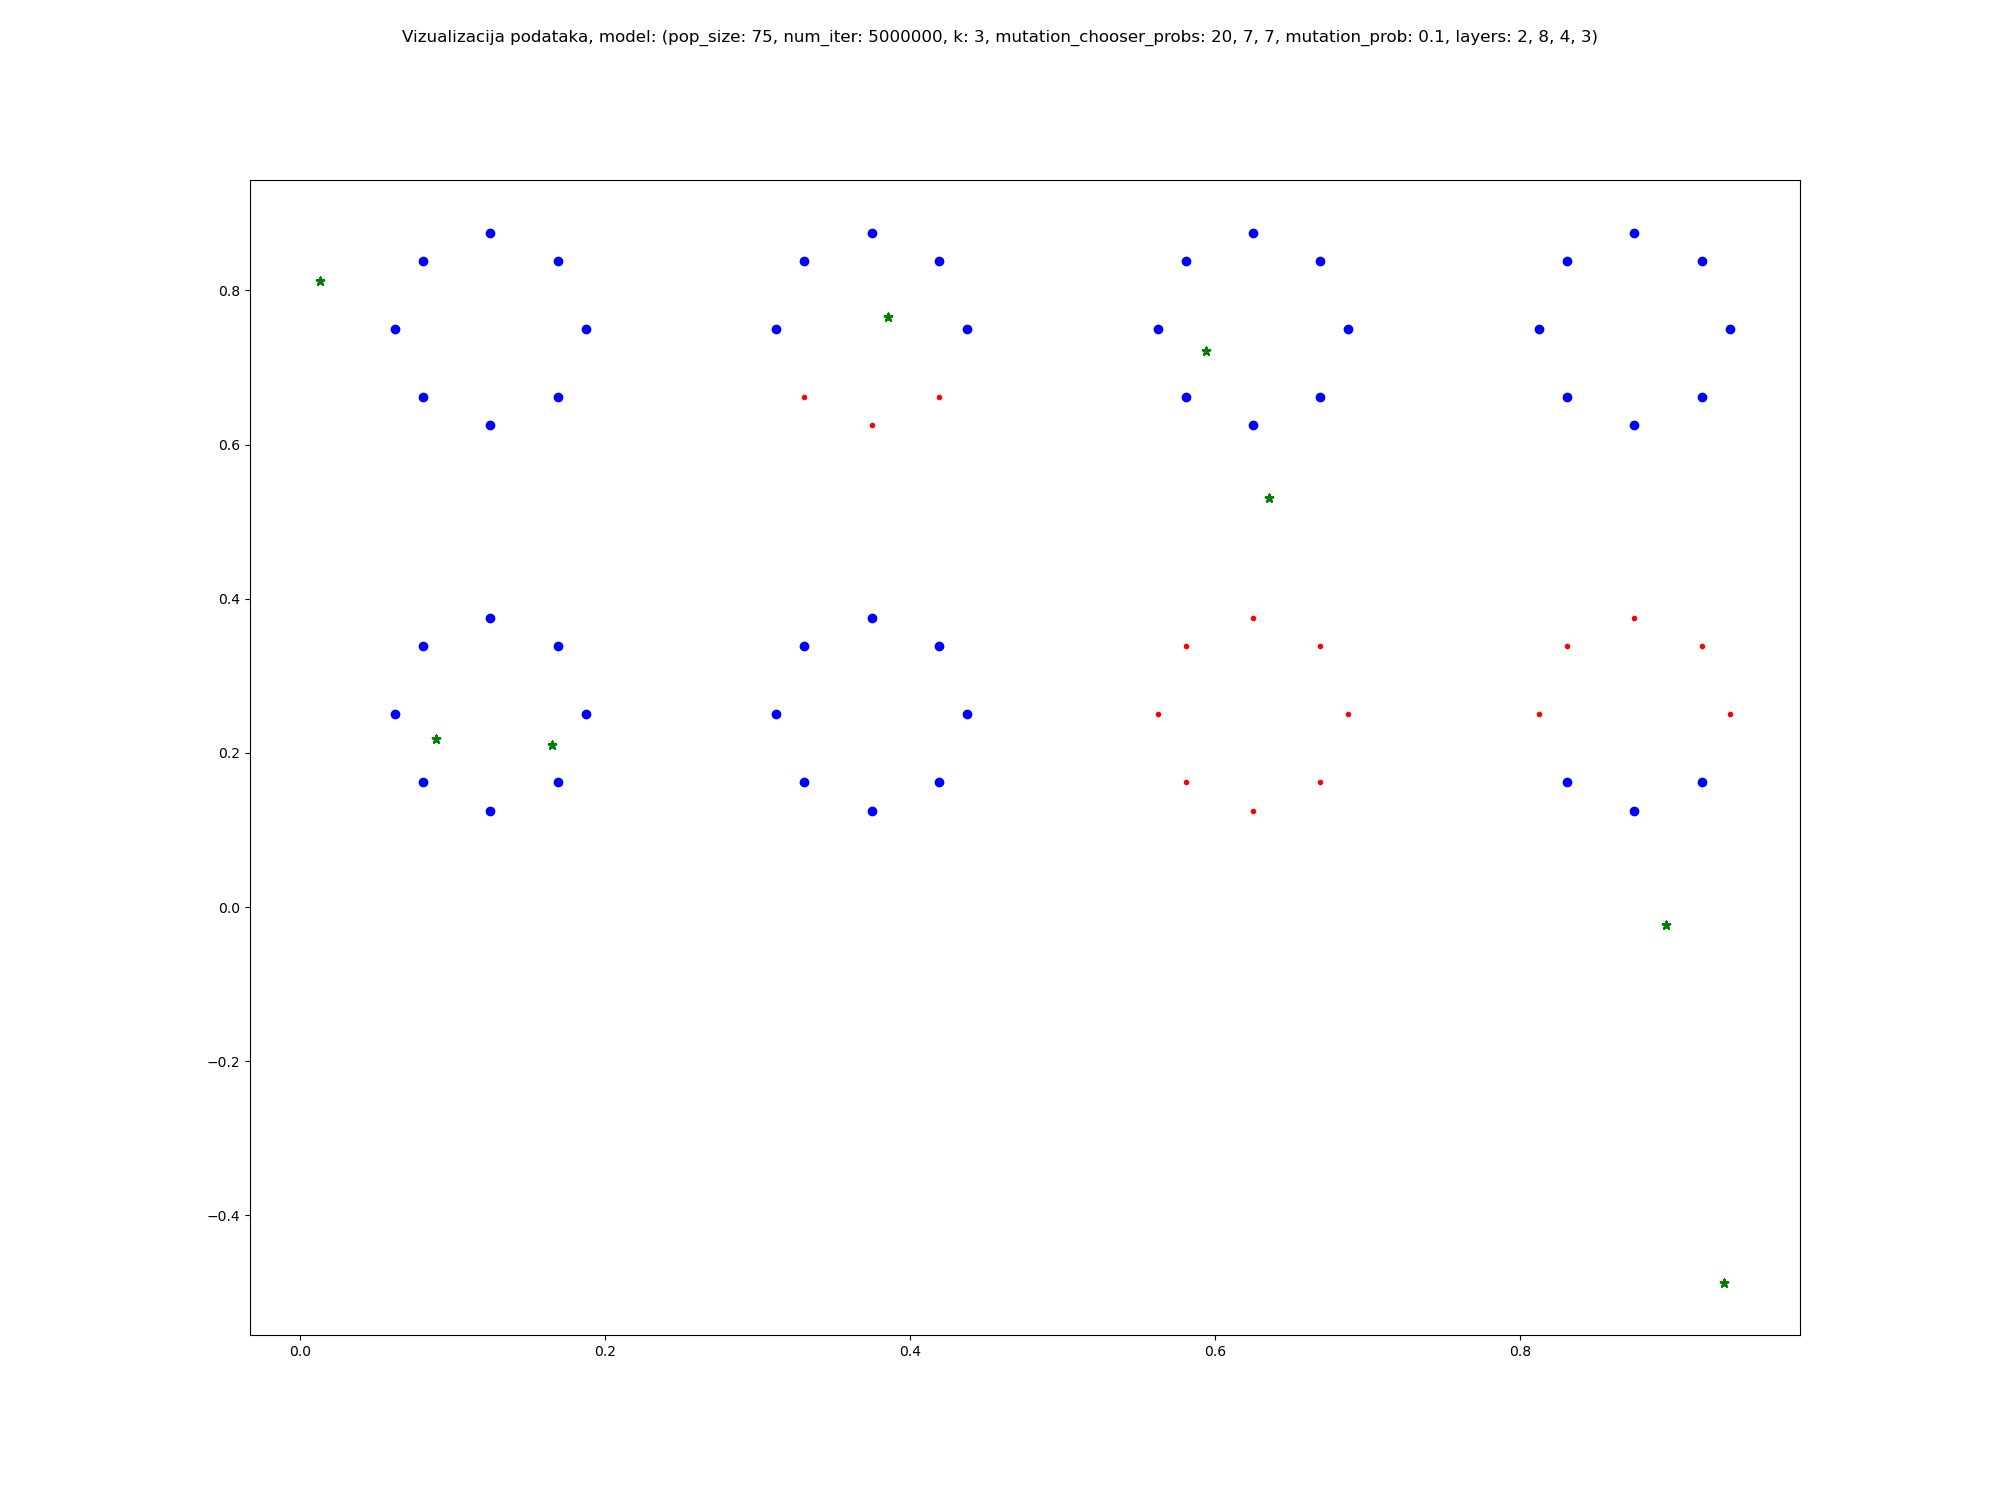
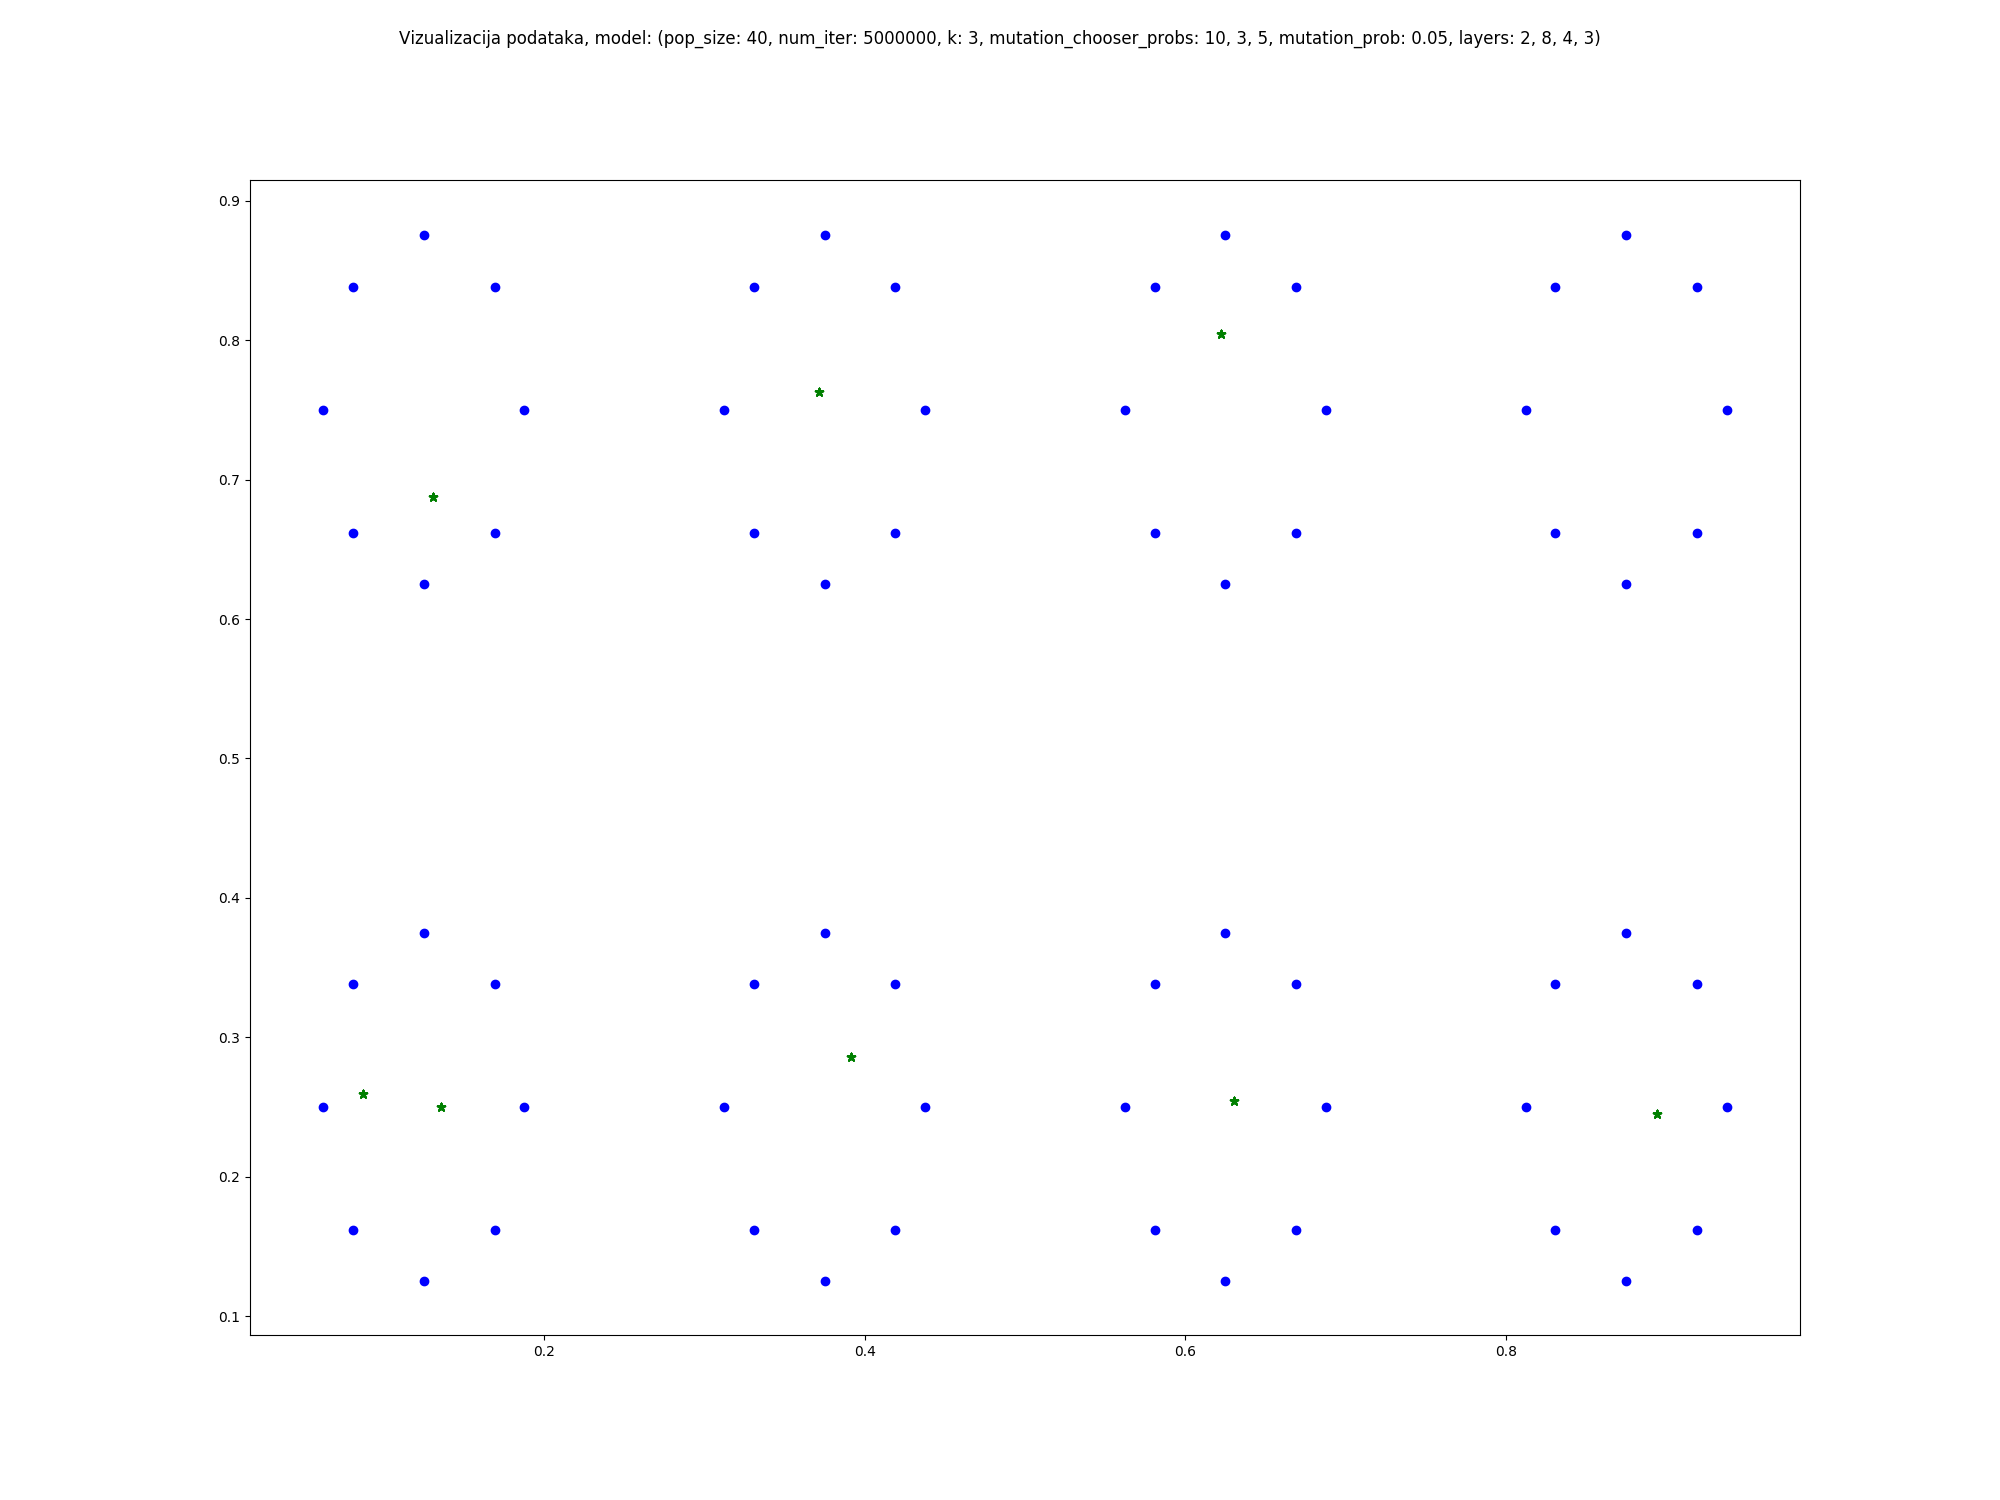
Finished lab7

Changed region(s): [[0.186, 0.0, 0.806, 0.0307]]

diff --git a/neuro_evolutional_net/main.py b/neuro_evolutional_net/main.py
@@ -40,7 +40,7 @@ def plot_data(dataset, save_file=None, neural_net=None, params=None, model_specs
 
     if save_file is not None:
         plt.savefig(save_file)
-    # plt.show()
+    plt.show()
 
 
 def test_neuron(w, s, save_file=None):
@@ -56,59 +56,58 @@ def test_neuron(w, s, save_file=None):
 
     if save_file is not None:
         plt.savefig(save_file)
-    # plt.show()
+    plt.show()
 
 
 def main():
     dataset = Dataset('dataset.txt')
-    for layers in [[2, 8, 3], [2, 8, 4, 3], [2, 6, 4, 3]]:
-        print(layers)
-        neural_net = NeuralNet(layers, dataset)
-        #test_neuron(2, [1, 0.25, 4], save_file='test_neuron.png')
-        #plot_data(dataset, save_file='data_visualisation.png')
-        population_size = 150
-        num_iter = 10000000
-        k = 5
-        mutation_chooser_probs = [10, 2, 3]
-        mutation_prob = 0.2
-        genetic_algorithm = GeneticAlgorithm(population_generation=genetics.generate_population(neural_net.get_num_params(), population_size, neural_net),
-                                             num_iter=num_iter,
-                                             selection=genetics.tournament_selection(
-            population_size, k=k),
-            combination=genetics.cross_chooser(
-            [genetics.weight_recombination(neural_net),
-             genetics.simulated_binary_recombination(
-                neural_net),
-             genetics.whole_arithmetic_recombination(neural_net)]),
-            mutation=genetics.mutation_chooser([genetics.mutation_1(mutation_prob, 0.05),
-                                                genetics.mutation_1(
-                mutation_prob, 0.2),
-                genetics.mutation_2(mutation_prob, 0.33)],
-            probs=mutation_chooser_probs, neural_net=neural_net),
-            solution=genetics.solution(),
-            goal_error=1e-7)
+    layers = [2, 8, 3]
+    neural_net = NeuralNet(layers, dataset)
+    #test_neuron(2, [1, 0.25, 4], save_file='test_neuron.png')
+    #plot_data(dataset, save_file='data_visualisation.png')
+    population_size = 40
+    num_iter = 5000000
+    k = 3
+    mutation_chooser_probs = [10, 3, 5]
+    mutation_prob = 0.05
+    genetic_algorithm = GeneticAlgorithm(population_generation=genetics.generate_population(neural_net.get_num_params(), population_size, neural_net),
+                                         num_iter=num_iter,
+                                         selection=genetics.tournament_selection(
+        population_size, k=k),
+        combination=genetics.cross_chooser(
+        [genetics.weight_recombination(neural_net),
+            genetics.simulated_binary_recombination(
+            neural_net),
+            genetics.whole_arithmetic_recombination(neural_net)]),
+        mutation=genetics.mutation_chooser([genetics.mutation_1(mutation_prob, 0.05),
+                                            genetics.mutation_1(
+            mutation_prob, 0.3),
+            genetics.mutation_2(mutation_prob, 1)],
+        probs=mutation_chooser_probs, neural_net=neural_net),
+        solution=genetics.solution(),
+        goal_error=1e-7)
 
-        start_time = time.time()
-        best = genetic_algorithm.evolution(neural_net)
-        print("--- {} seconds ---".format(time.time() - start_time))
+    start_time = time.time()
+    best = genetic_algorithm.evolution(neural_net)
+    print("--- {} seconds ---".format(time.time() - start_time))
 
-        best.save_individual("best_individual_{}_1.pickle".format(
-            ''.join([str(layer) for layer in layers])))
+    best.save_individual("best_individual_{}_1.pickle".format(
+        ''.join([str(layer) for layer in layers])))
 
-        print(neural_net.calculate_error(
-            [best.w_type_1, best.s_type_1, best.w, best.b]))
+    print(neural_net.calculate_error(
+        [best.w_type_1, best.s_type_1, best.w, best.b]))
 
-        plot_data(dataset, neural_net=neural_net, model_specs={
-            "pop_size": population_size,
-            "num_iter": num_iter,
-            "k": k,
-            "mutation_chooser_probs": ', '.join([str(prob) for prob in mutation_chooser_probs]),
-            "mutation_prob": mutation_prob,
-            "layers": ', '.join([str(layer) for layer in layers])
-        },
-            params=best.value,
-            save_file="data_visualisation_with_neuron_weights_{}_1.png".format(
-            ''.join([str(layer) for layer in layers])))
+    plot_data(dataset, neural_net=neural_net, model_specs={
+        "pop_size": population_size,
+        "num_iter": num_iter,
+        "k": k,
+        "mutation_chooser_probs": ', '.join([str(prob) for prob in mutation_chooser_probs]),
+        "mutation_prob": mutation_prob,
+        "layers": ', '.join([str(layer) for layer in layers])
+    },
+        params=best.value,
+        save_file="data_visualisation_with_neuron_weights_{}_1.png".format(
+        ''.join([str(layer) for layer in layers])))
 
 
 if __name__ == "__main__":

diff --git a/neuro_evolutional_net/genetics.py b/neuro_evolutional_net/genetics.py
@@ -4,7 +4,12 @@ from individual import Individual
 
 def generate_population(no_params, population_size, neural_net):
     def generator():
-        return [Individual(np.random.rand(no_params) * 2 - 1, neural_net) for _ in range(population_size)]
+        population = [Individual(np.random.rand(
+            no_params) * 2 - 1, neural_net) for _ in range(population_size)]
+        for p in population:
+            p.calculate_error()
+
+        return population
     return generator
 
 
@@ -106,8 +111,7 @@ def mutation_chooser(mutation_list, probs, neural_net):
         mutation = np.random.choice(mutation_list, p=probs)
         mutated = mutation(children)
         for c in mutated:
-            c.error = neural_net.calculate_error(
-                [c.w_type_1, c.s_type_1, c.w, c.b])
+            c.calculate_error()
 
         return mutated
 

diff --git a/neuro_evolutional_net/individual.py b/neuro_evolutional_net/individual.py
@@ -7,9 +7,12 @@ class Individual:
 
     def __init__(self, value, neural_net):
         self.value = np.array(value.copy())
-        self.w_type_1, self.s_type_1, self.w, self.b = neural_net.decode_params(
+        self.neural_net = neural_net
+
+    def calculate_error(self):
+        self.w_type_1, self.s_type_1, self.w, self.b = self.neural_net.decode_params(
             self.value)
-        self.error = neural_net.calculate_error(
+        self.error = self.neural_net.calculate_error(
             [self.w_type_1, self.s_type_1, self.w, self.b])
 
     def get_value(self):
